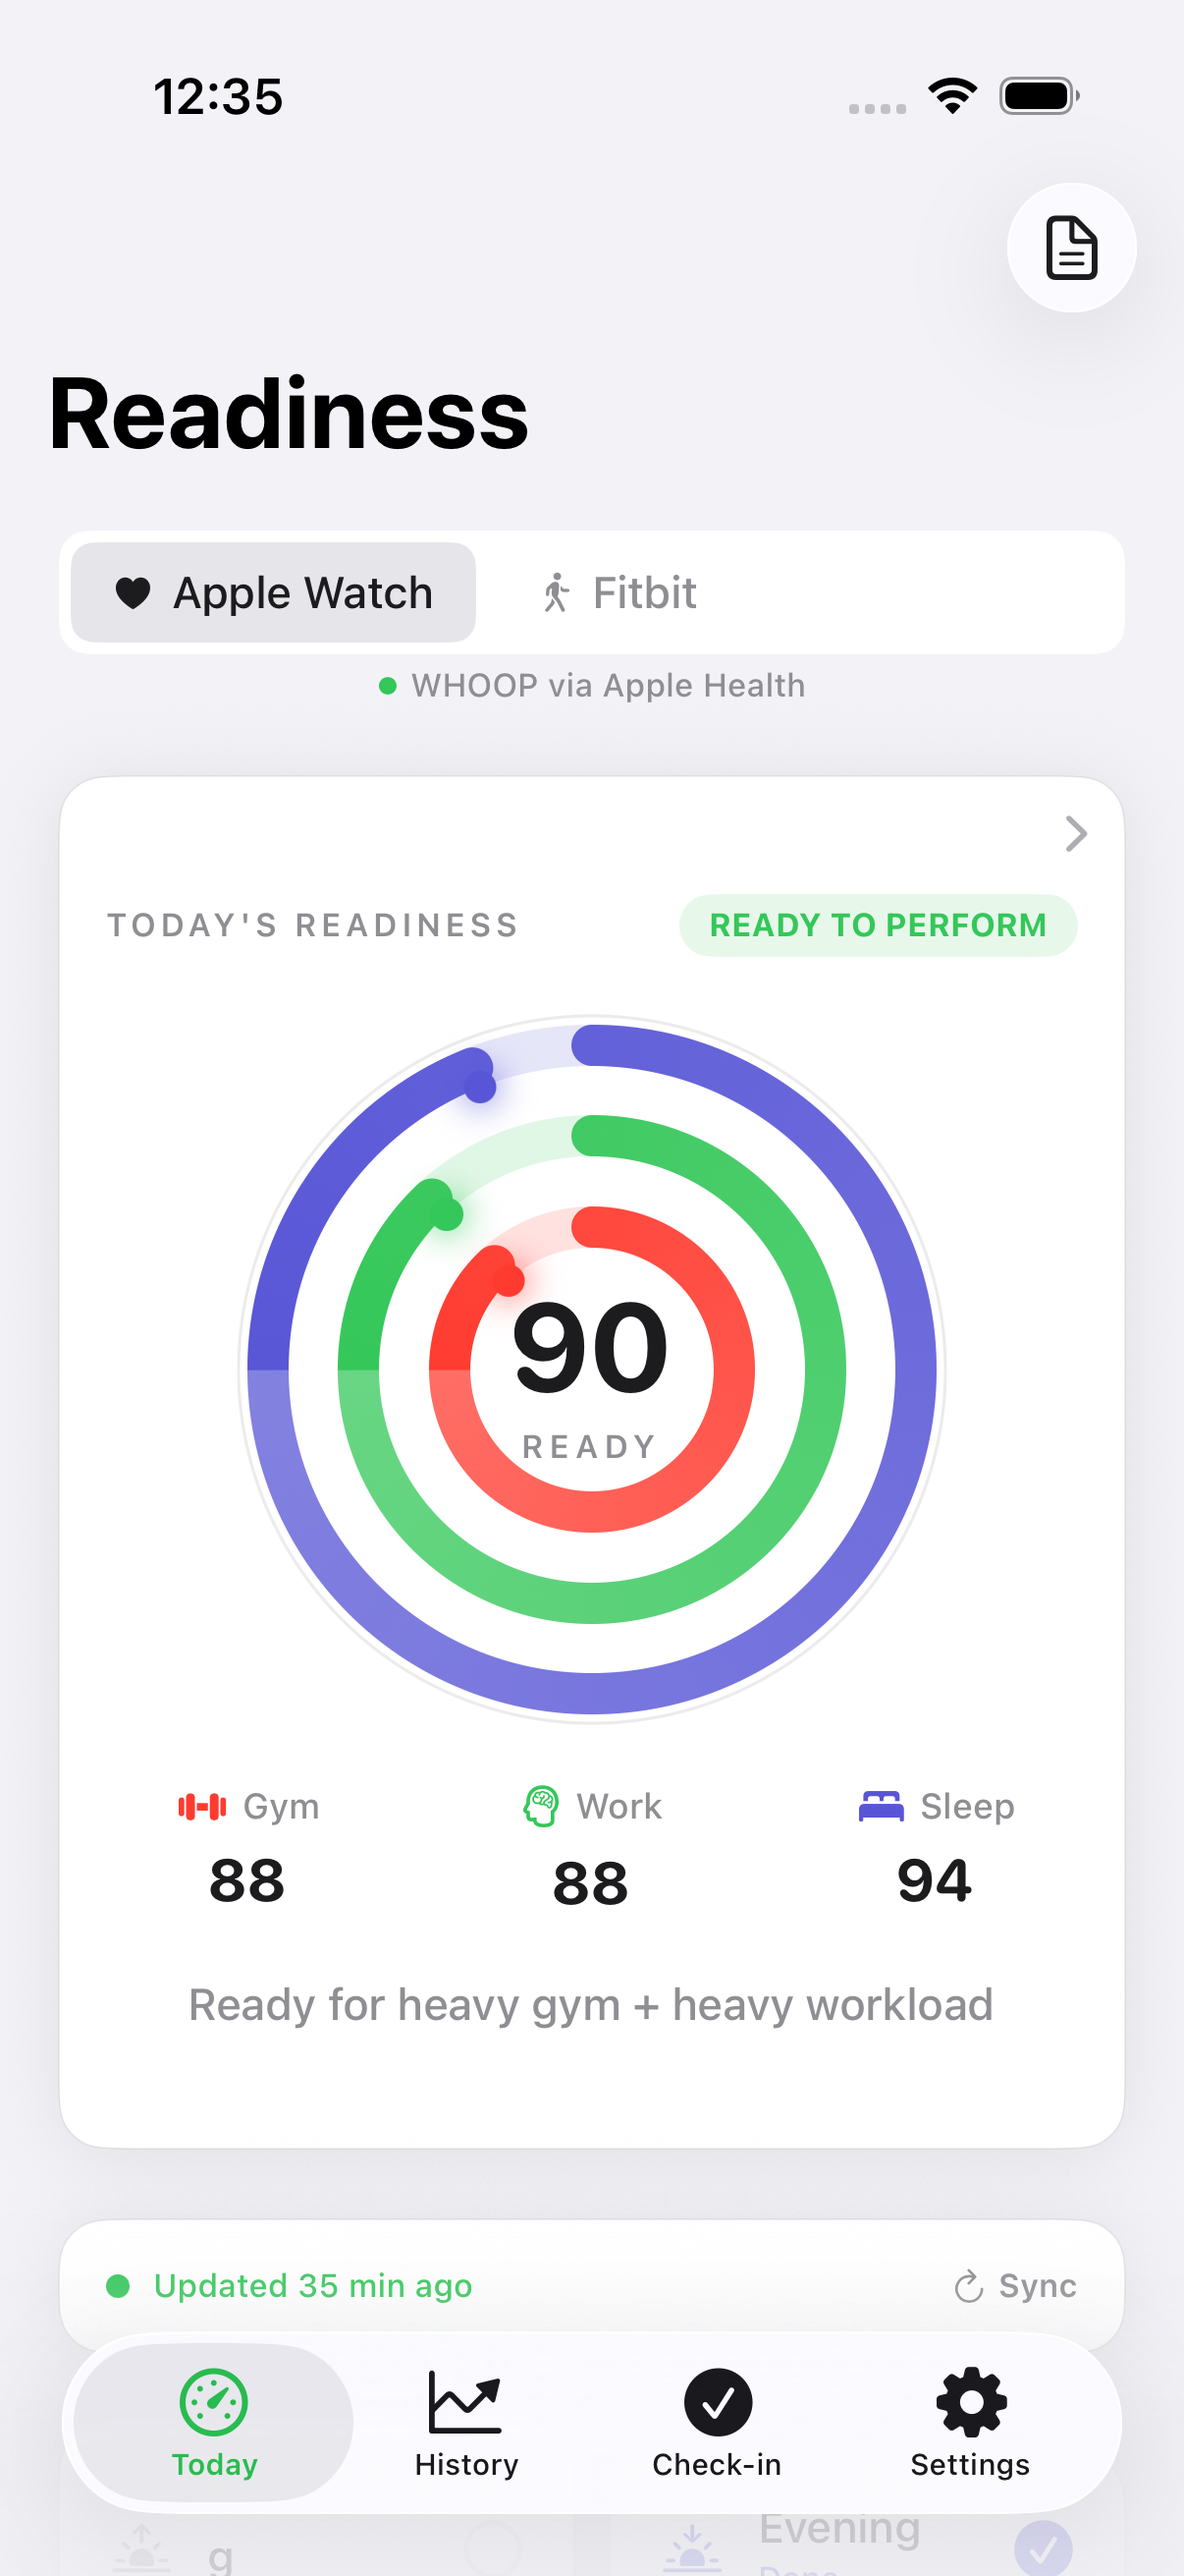
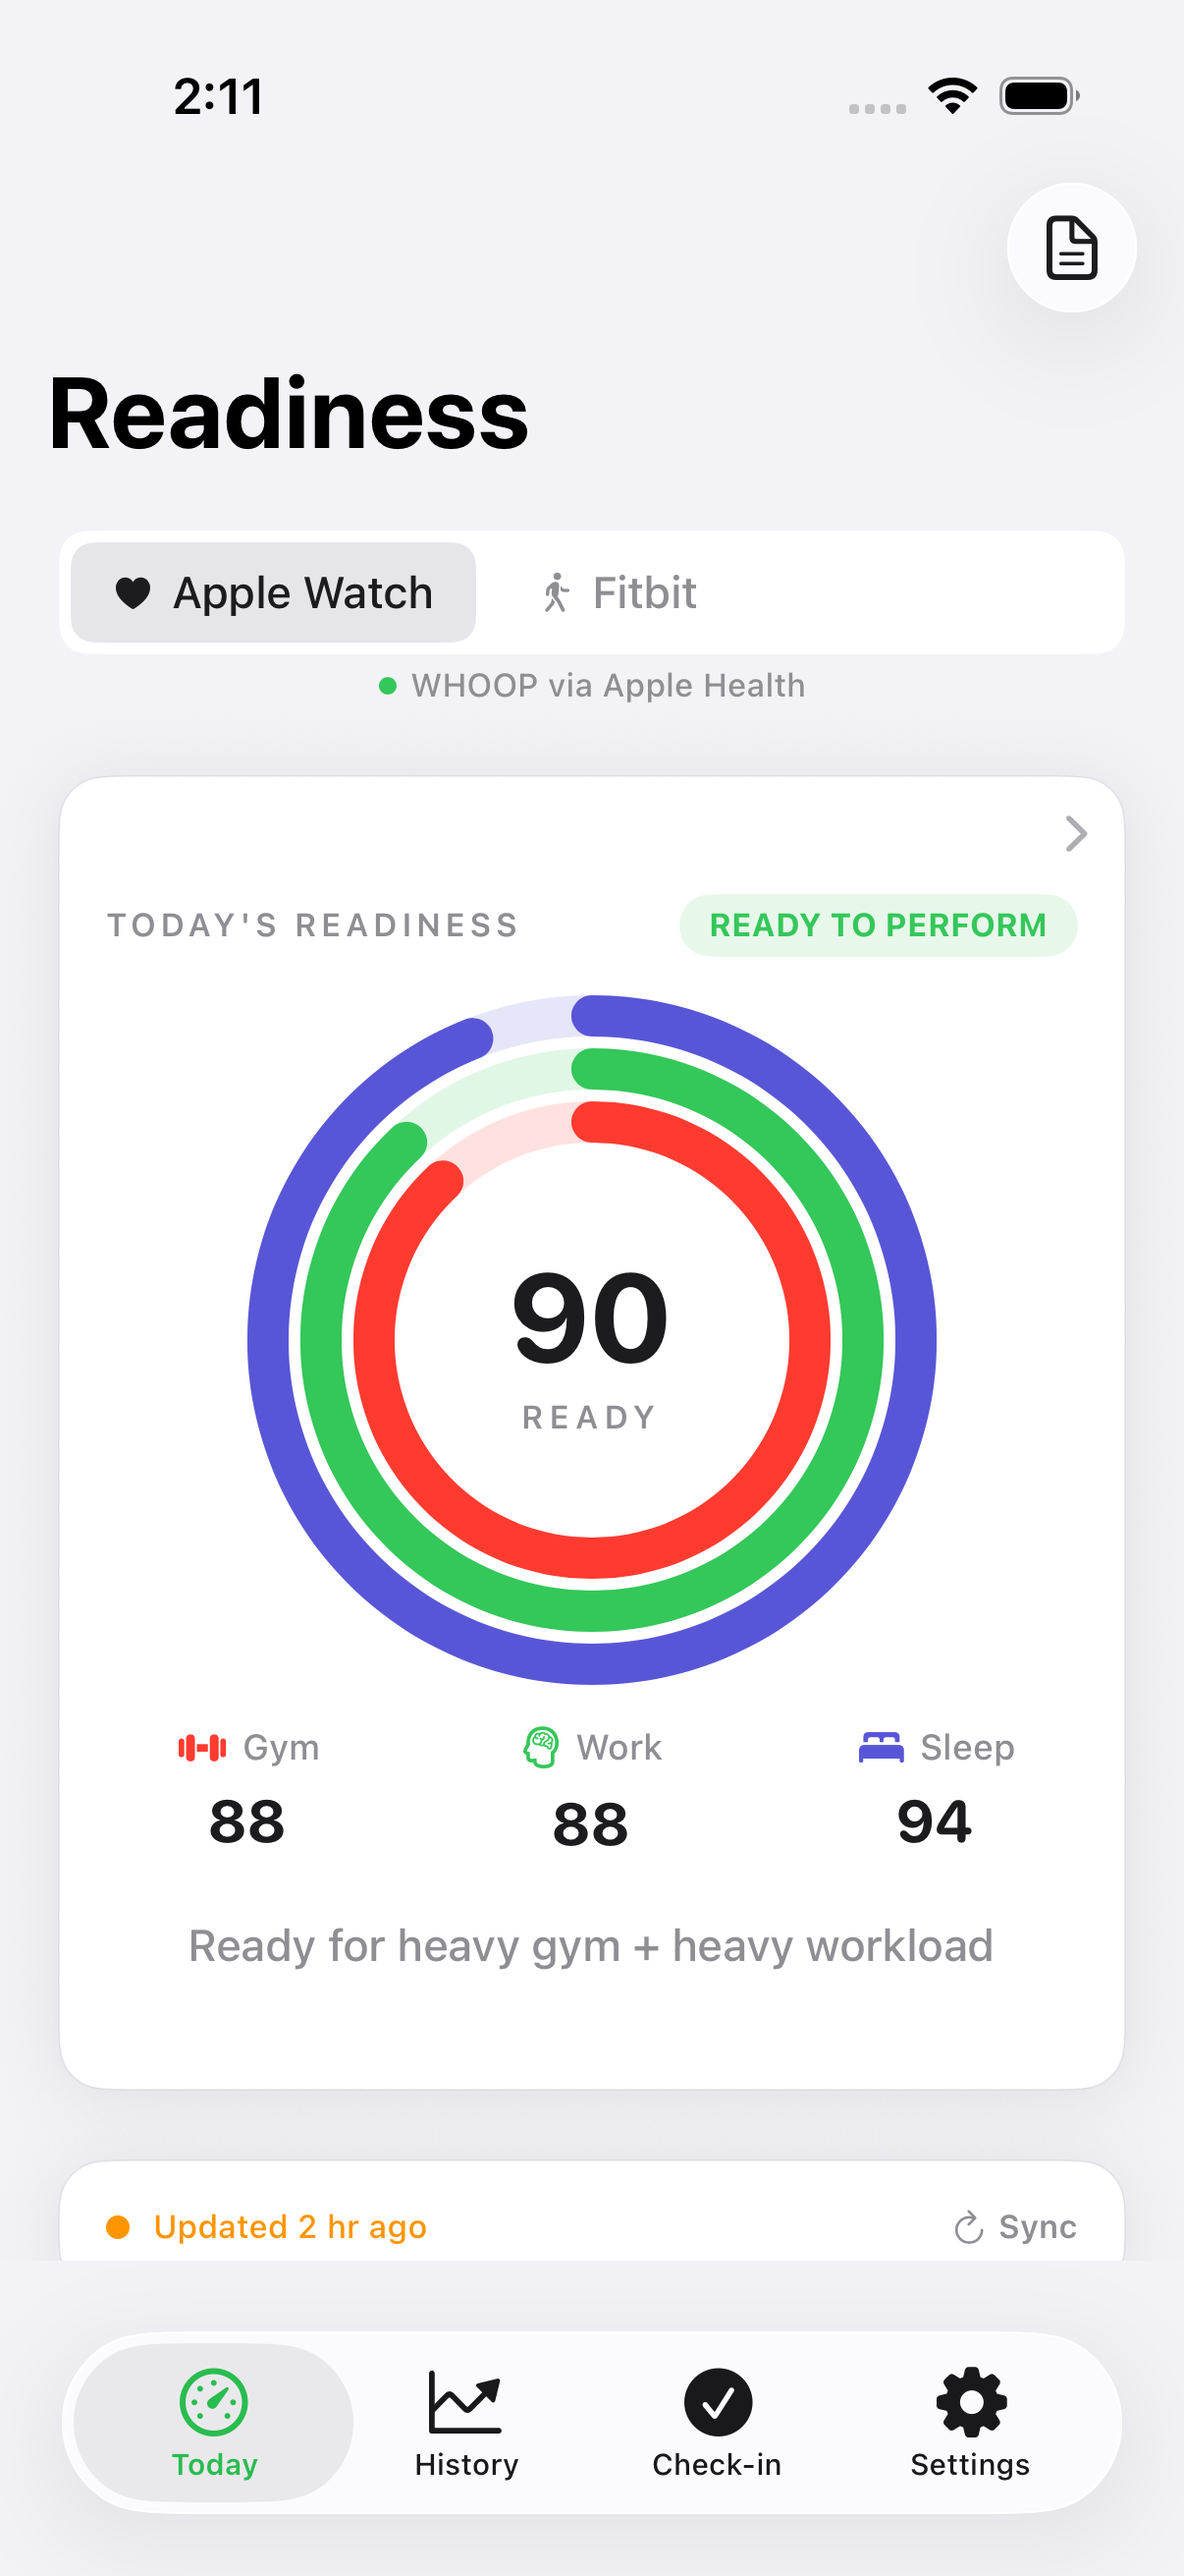
fix(today): inset Today scroll so check-in clears the tab bar
Morning and Evening sat under the floating tab bar. Extra bottom
padding on the Today ScrollView keeps those cards above it.

diff --git a/ReadinessTracker/Views/DashboardView.swift b/ReadinessTracker/Views/DashboardView.swift
@@ -113,7 +113,9 @@ struct DashboardView: View {
                     }
                     .padding(.horizontal, AppleTheme.horizontalMargin)
                     .padding(.vertical, 12)
+                    .padding(.bottom, 80)
                 }
+                .padding(.bottom, 24)
                 .refreshable {
                     await performRefresh()
                 }
